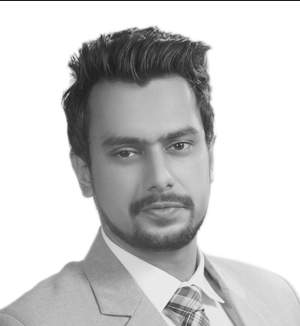
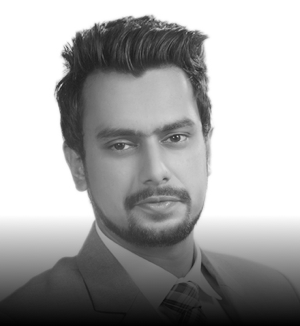
updated

diff --git a/wp-content/themes/nengutech/index.php b/wp-content/themes/nengutech/index.php
@@ -243,7 +243,7 @@ get_header();
         <div class="team-sdlier-wrp owl-carousel">
             <div class="single-team-item">
                 <div class="sigle-team-main-inner">
-                    <img src="<?php echo get_template_directory_uri(); ?>/assets/img/team-img-1.jpg" alt="">
+                    <img src="<?php echo get_template_directory_uri(); ?>/assets/img/cyril.png" alt="">
                     <div class="team-content-blk">
                         <h4>Cyril Nambangi <span>CFO</span></h4>
                         <div class="tm-sc-link">
@@ -306,71 +306,7 @@ get_header();
                     </div>
                 </div>
             </div>
-            <div class="single-team-item">
-                <div class="sigle-team-main-inner">
-                    <img src="<?php echo get_template_directory_uri(); ?>/assets/img/placeholder.png" alt="">
-                    <div class="team-content-blk">
-                        <h4>Cyril Nambangi <span>CTO of Nengu Tech</span></h4>
-                        <div class="tm-sc-link">
-                            <a href=""><i class="fab fa-facebook-f"></i></a>
-                            <a href=""><i class="fab fa-instagram"></i></a>
-                            <a href=""><i class="fab fa-linkedin"></i></a>
-                        </div>
-                    </div>
-                </div>
-            </div>
-            <div class="single-team-item">
-                <div class="sigle-team-main-inner">
-                    <img src="<?php echo get_template_directory_uri(); ?>/assets/img/placeholder.png" alt="">
-                    <div class="team-content-blk">
-                        <h4>Cyril Nambangi <span>CTO of Nengu Tech</span></h4>
-                        <div class="tm-sc-link">
-                            <a href=""><i class="fab fa-facebook-f"></i></a>
-                            <a href=""><i class="fab fa-instagram"></i></a>
-                            <a href=""><i class="fab fa-linkedin"></i></a>
-                        </div>
-                    </div>
-                </div>
-            </div>
-            <div class="single-team-item">
-                <div class="sigle-team-main-inner">
-                    <img src="<?php echo get_template_directory_uri(); ?>/assets/img/placeholder.png" alt="">
-                    <div class="team-content-blk">
-                        <h4>Cyril Nambangi <span>CTO of Nengu Tech</span></h4>
-                        <div class="tm-sc-link">
-                            <a href=""><i class="fab fa-facebook-f"></i></a>
-                            <a href=""><i class="fab fa-instagram"></i></a>
-                            <a href=""><i class="fab fa-linkedin"></i></a>
-                        </div>
-                    </div>
-                </div>
-            </div>
-            <div class="single-team-item">
-                <div class="sigle-team-main-inner">
-                    <img src="<?php echo get_template_directory_uri(); ?>/assets/img/placeholder.png" alt="">
-                    <div class="team-content-blk">
-                        <h4>Cyril Nambangi <span>CTO of Nengu Tech</span></h4>
-                        <div class="tm-sc-link">
-                            <a href=""><i class="fab fa-facebook-f"></i></a>
-                            <a href=""><i class="fab fa-instagram"></i></a>
-                            <a href=""><i class="fab fa-linkedin"></i></a>
-                        </div>
-                    </div>
-                </div>
-            </div>
-            <div class="single-team-item">
-                <div class="sigle-team-main-inner">
-                    <img src="<?php echo get_template_directory_uri(); ?>/assets/img/placeholder.png" alt="">
-                    <div class="team-content-blk">
-                        <h4>Cyril Nambangi <span>CTO of Nengu Tech</span></h4>
-                        <div class="tm-sc-link">
-                            <a href=""><i class="fab fa-facebook-f"></i></a>
-                            <a href=""><i class="fab fa-instagram"></i></a>
-                            <a href=""><i class="fab fa-linkedin"></i></a>
-                        </div>
-                    </div>
-                </div>
-            </div>
+           
         </div>
     </div>
 
